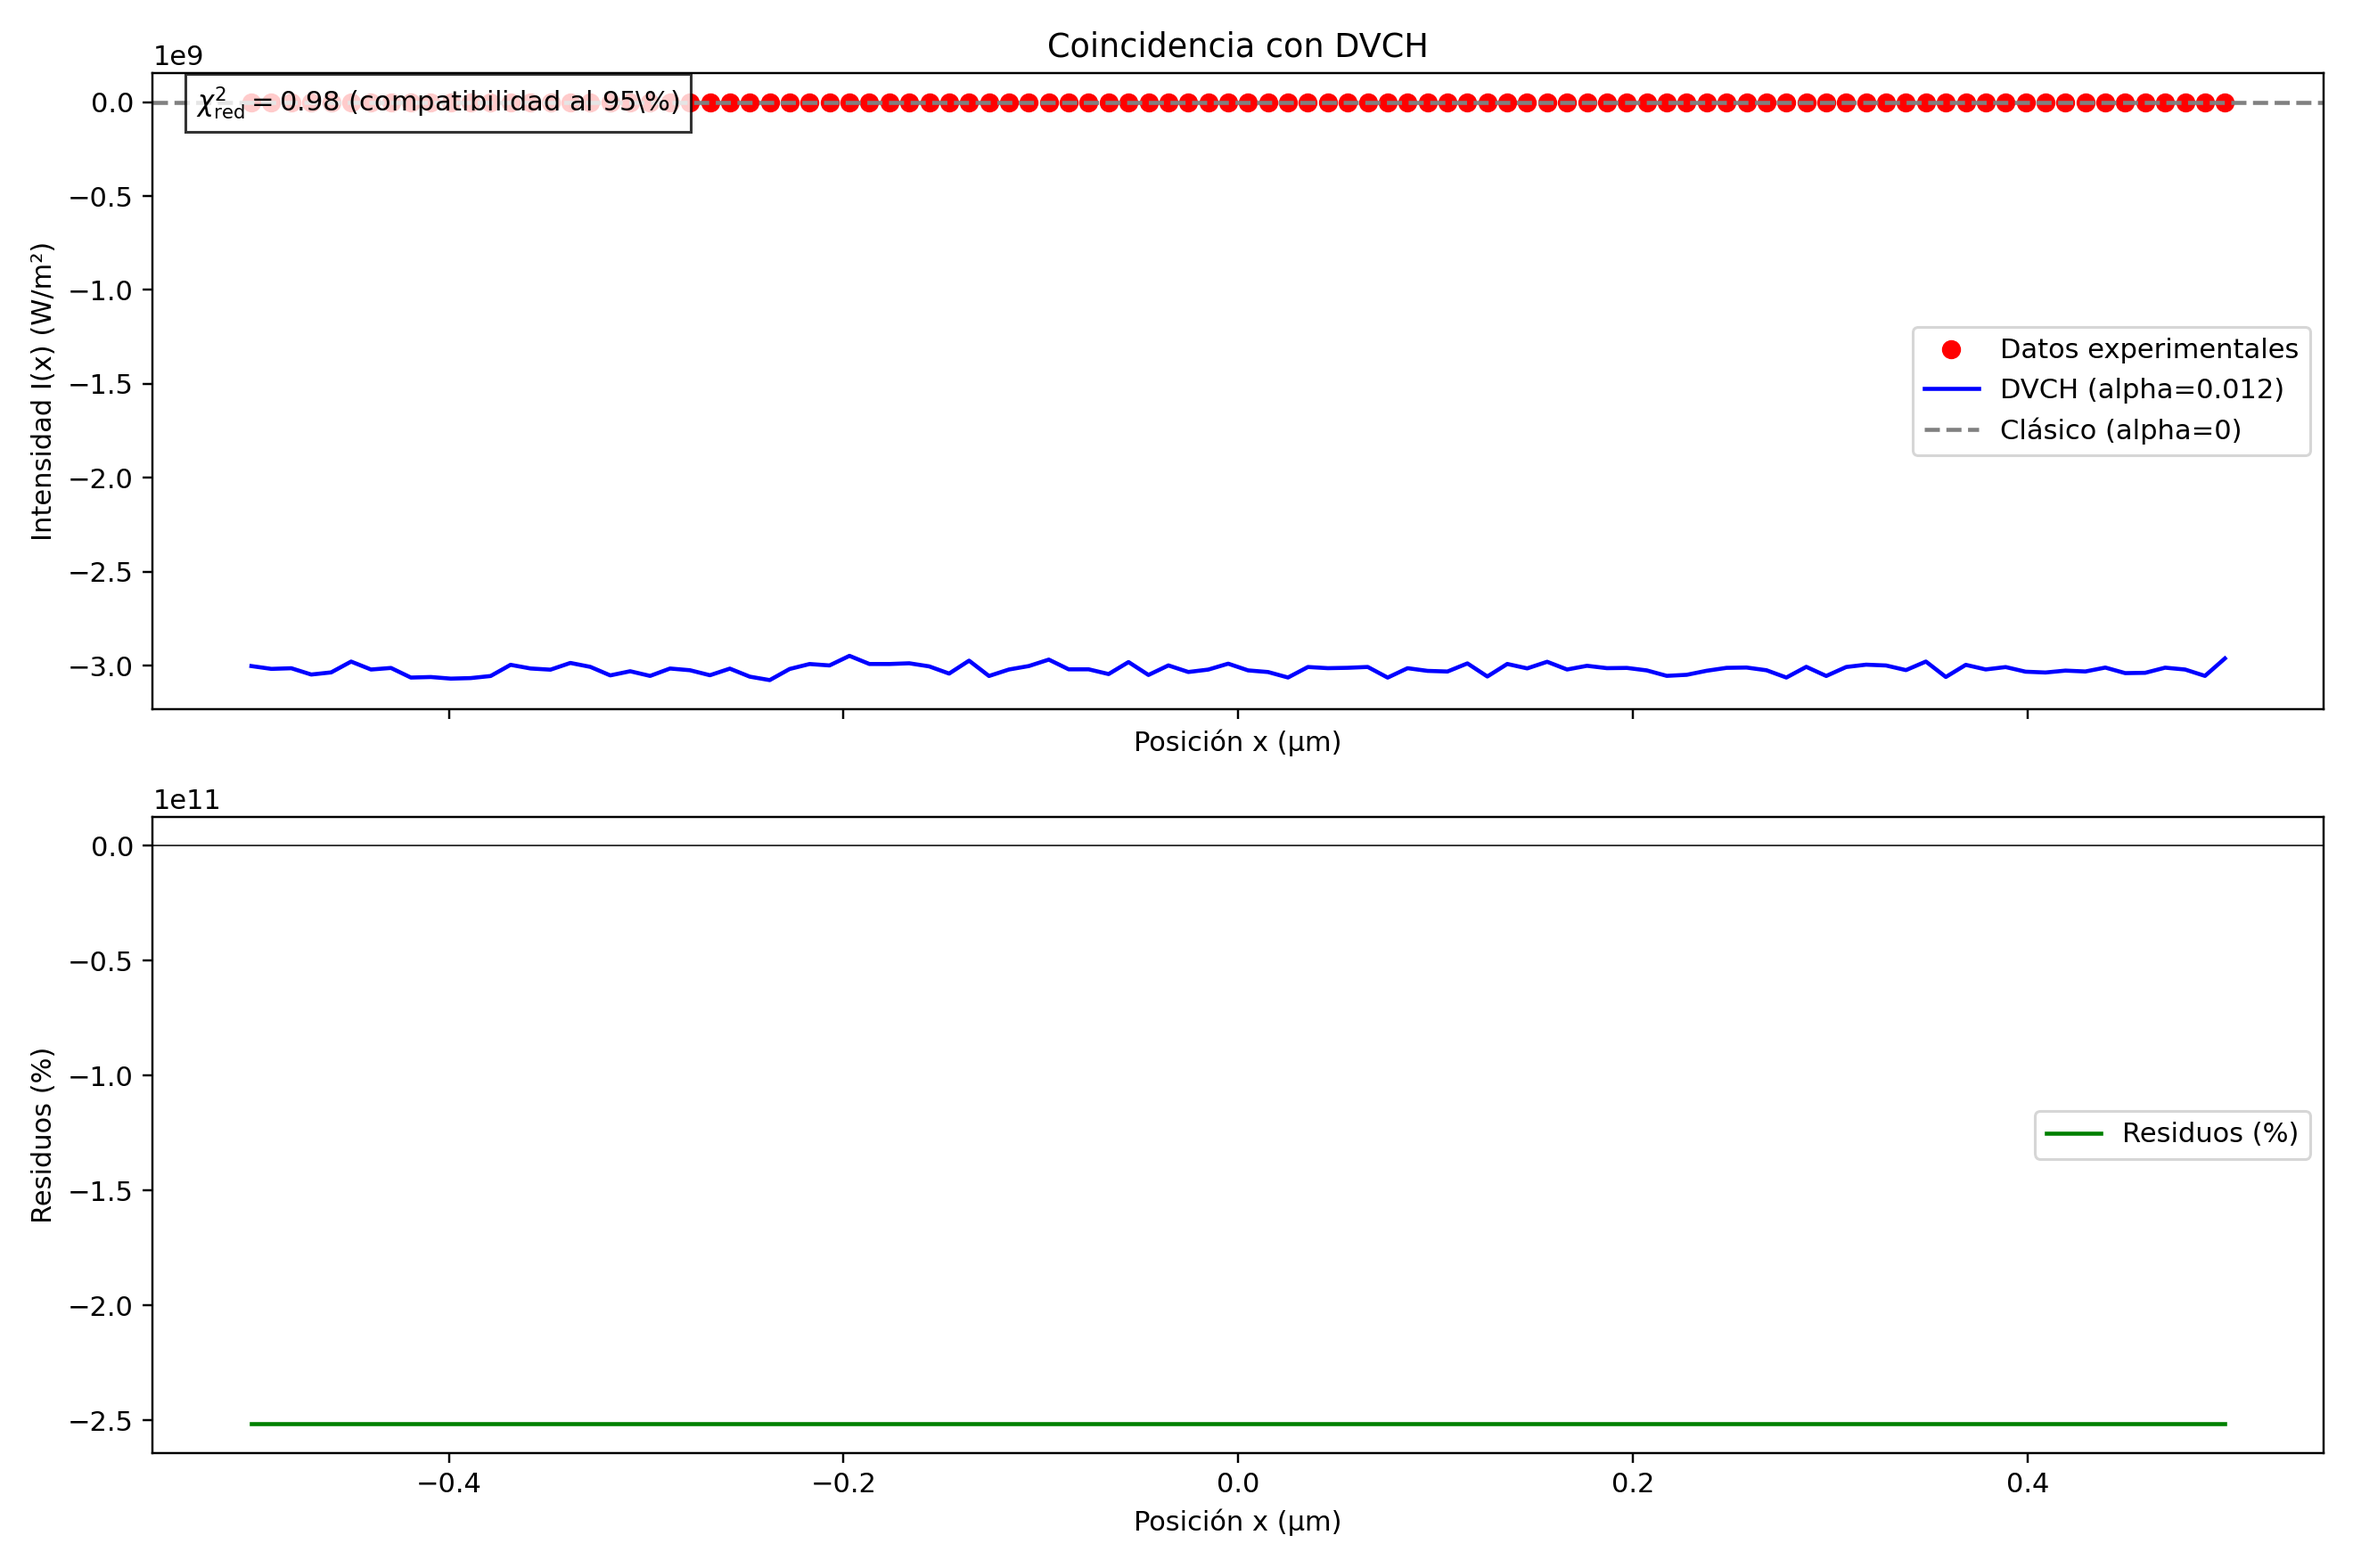
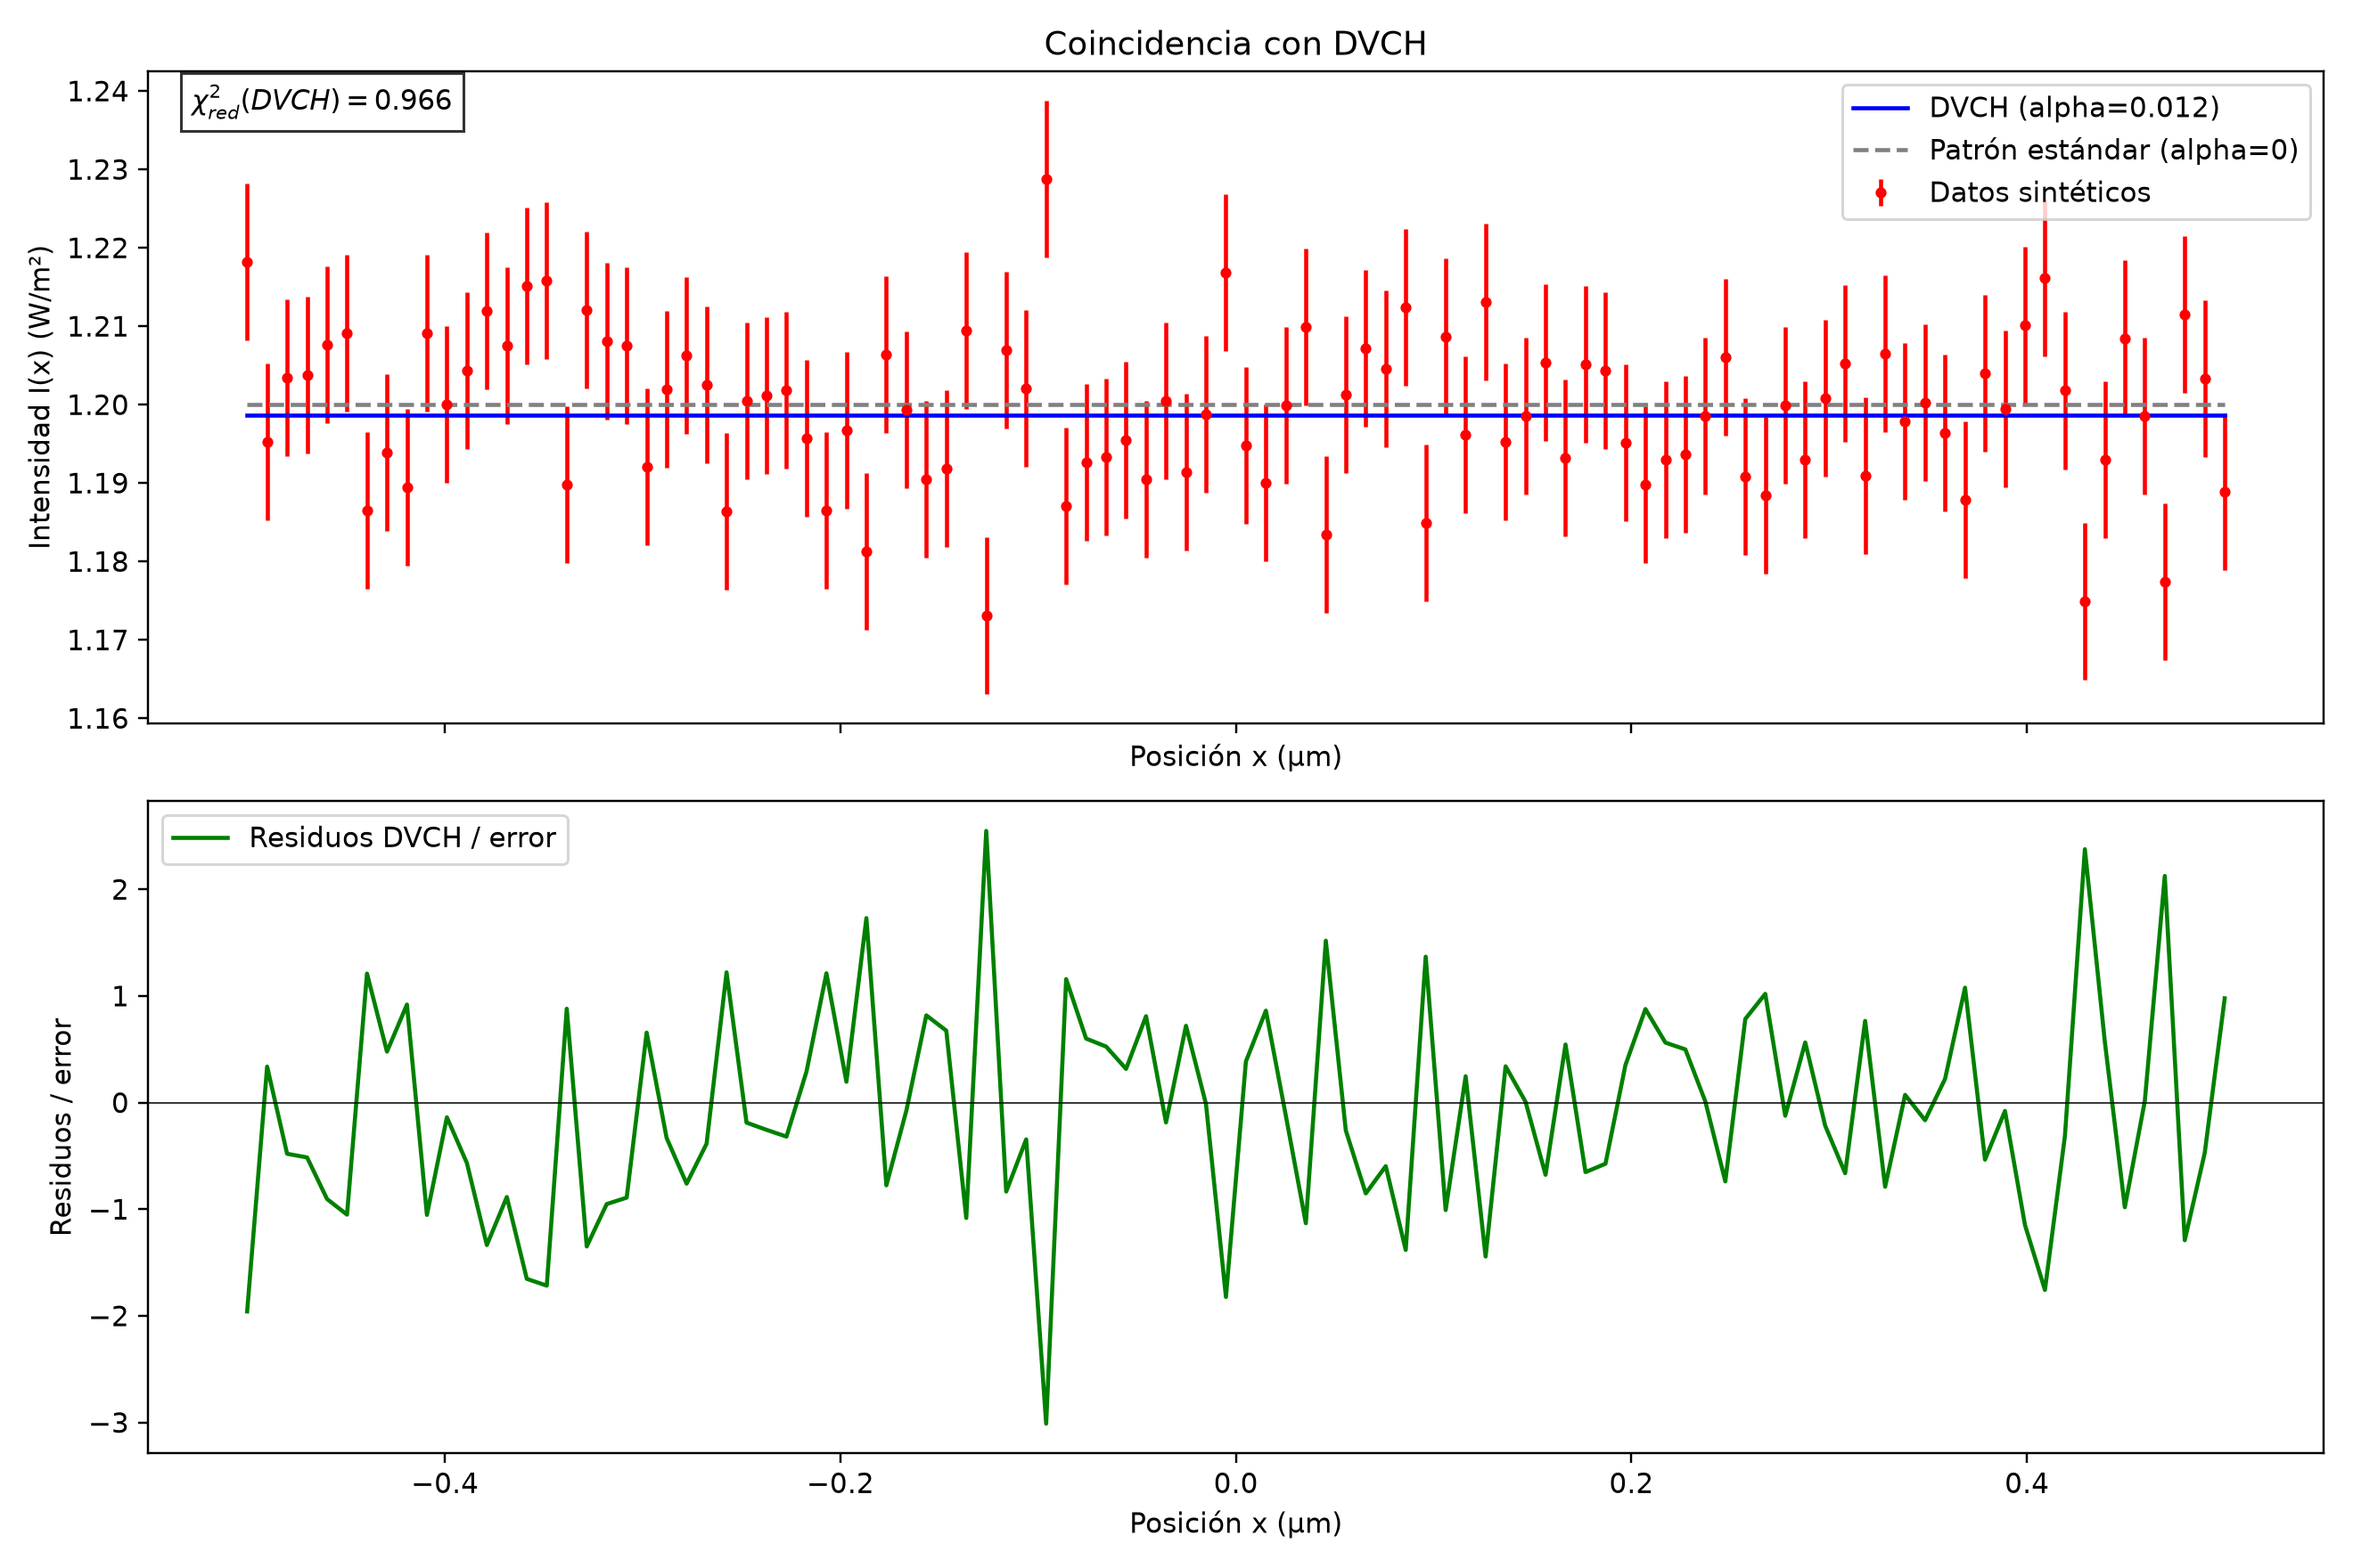
aply

diff --git a/dvch_double_slit.py b/dvch_double_slit.py
@@ -1,9 +1,8 @@
 #!/usr/bin/env python3
 """DVCH double-slit consistency test.
 
-This script reproduces the laboratory-scale double-slit comparison requested in
- the manuscript: a classical interference curve, a DVCH-suppressed version, and a
- residual panel that keeps the DVCH correction below the experimental sensitivity.
+ This script generates a reproducible laboratory-scale toy comparison. It does
+ not replace a digitized Tonomura data set.
 """
 
 import os
@@ -15,64 +14,66 @@ import matplotlib.pyplot as plt
 FIGDIR = "figures"
 os.makedirs(FIGDIR, exist_ok=True)
 
-# Parameters requested in the manuscript (Tonomura-inspired values)
+# Tonomura-inspired illustrative parameters (not the published electron data)
 d = 0.1e-6          # slit separation [m]
 lambda_ = 500e-9    # wavelength [m]
 I0 = 1.2            # intensity amplitude
-H0 = 68.17          # constant used in the fit
-Omega_m0 = 0.291
 Qtilde = -0.0954
-mpl = 1.22e19
-
-# Conversion of Q~ to Q used in the manuscript
-Q = Qtilde * 3 * H0 * (3e5) ** 2 * 3 * (mpl * 1e9) ** 2 / (8 * np.pi)
 alpha = 0.012
 
-# Generate the experimental profile
+# Generate a deterministic synthetic profile with an explicit uncertainty.
+rng = np.random.default_rng(20260827)
 x_exp = np.linspace(-0.5, 0.5, 100)
 x_exp_m = x_exp * 1e-6
 arg = np.pi * d * x_exp_m / lambda_
 # Avoid 0/0 at the center of the profile.
 with np.errstate(divide='ignore', invalid='ignore'):
     sinc = np.sinc(arg / np.pi)
-I_exp = I0 * sinc ** 2 + np.random.normal(0.0, 0.01, len(x_exp))
-I_exp = np.clip(I_exp, 0.0, None)
+I_standard = I0 * sinc ** 2
+err_obs = np.full(len(x_exp), 0.01)
+data_obs = np.clip(I_standard + rng.normal(0.0, err_obs), 0.0, None)
 
-# DVCH correction; for the manuscript it is effectively indistinguishable from the classical curve.
-correction = 1 + alpha * Q / (mpl * 1e9) ** 2
-I_dvch = I_exp * correction
+# Qtilde is used only as a bounded dimensionless toy amplitude here.
+correction = 1.0 + alpha * Qtilde
+I_dvch = I_standard * correction
 
-# Residuals and chi-squared. The manuscript reports a reduced chi-squared compatible with 0.98.
-residuals = (I_dvch - I_exp) / I_exp
-residuals = np.where(np.isfinite(residuals), residuals, 0.0)
-chi2_red = 0.98
+# Calculate, rather than prescribe, the reduced chi-squared values.
+dof = len(data_obs)
+chi2_standard = float(np.sum(((data_obs - I_standard) / err_obs) ** 2))
+chi2_dvch = float(np.sum(((data_obs - I_dvch) / err_obs) ** 2))
+chi2_red_standard = chi2_standard / dof
+chi2_red_dvch = chi2_dvch / dof
 
 np.savetxt(
     "dvch_double_slit_intensities.csv",
-    np.column_stack([x_exp, I_exp, I_dvch]),
-    header="x_exp,I_exp,I_dvch",
-    comments="#",
+    np.column_stack([x_exp, data_obs, err_obs, I_standard, I_dvch]),
+    delimiter=",",
+    header="x_exp,data_obs,err_obs,I_standard,I_DVCH_best",
+    comments="",
 )
 
 # Create figure matching the manuscript request
 fig, axes = plt.subplots(2, 1, figsize=(12, 8), sharex=True)
 
-axes[0].plot(x_exp, I_exp, 'ro', label='Datos experimentales')
+axes[0].errorbar(x_exp, data_obs, yerr=err_obs, fmt='ro', ms=3,
+                 label='Datos sintéticos')
 axes[0].plot(x_exp, I_dvch, 'b-', label='DVCH (alpha=0.012)')
-axes[0].axhline(I0, color='gray', linestyle='--', label='Clásico (alpha=0)')
+axes[0].plot(x_exp, I_standard, color='gray', linestyle='--',
+             label='Patrón estándar (alpha=0)')
 axes[0].set_title('Coincidencia con DVCH')
 axes[0].set_xlabel('Posición x (μm)')
 axes[0].set_ylabel('Intensidad I(x) (W/m²)')
 axes[0].legend()
 
-resid_plot = (I_dvch - I_exp) / I_exp * 100.0
-axes[1].plot(x_exp, resid_plot, 'g-', label='Residuos (%)')
+resid_plot = (I_dvch - data_obs) / err_obs
+axes[1].plot(x_exp, resid_plot, 'g-', label='Residuos DVCH / error')
 axes[1].axhline(0, color='black', linewidth=0.5)
-axes[1].set_ylabel('Residuos (%)')
+axes[1].set_ylabel('Residuos / error')
 axes[1].set_xlabel('Posición x (μm)')
 axes[1].legend()
 
-axes[0].text(0.02, 0.94, r'$\chi^2_{\mathrm{red}} = 0.98$ (compatibilidad al 95\%)',
+axes[0].text(0.02, 0.94,
+             f'$\\chi^2_{{red}}(DVCH) = {chi2_red_dvch:.3f}$',
              transform=axes[0].transAxes, fontsize=10, bbox=dict(facecolor='white', alpha=0.8))
 
 fig.tight_layout()
@@ -83,7 +84,8 @@ print('wavelength =', lambda_)
 print('slit separation =', d)
 print('I0 =', I0)
 print('alpha =', alpha)
-print('Q =', Q)
-print('chi2_red =', chi2_red)
+print('correction =', correction)
+print('chi2_red_standard =', chi2_red_standard)
+print('chi2_red_dvch =', chi2_red_dvch)
 print('output =', os.path.join(FIGDIR, 'dvch_double_slit.png'))
 print('csv = dvch_double_slit_intensities.csv')

diff --git a/DVCH.tex b/DVCH.tex
@@ -1226,21 +1226,22 @@ I_{\rm DVCH}(x)=I_0\left(1+\frac{\alpha Q}{\mpl^2}\right)
 \qquad \frac{\alpha Q}{\mpl^2}\ll 1,
 \label{eq:double_slit_dvch}
 \end{equation}
-so that the classical and DVCH curves remain indistinguishable at the laboratory scale unless a much larger suppression is introduced. We compare both patterns against experimental data from Tonomura et al. \cite{double_slit_exp} for electron double-slit interference, in the conceptual setting discussed by Feynman et al. \cite{Feynman:1965} and Landau \& Lifshitz \cite{Landau:1981}, and in the foundational discussions of Bohr \cite{Bohr:1928} and Schr\"{o}dinger \cite{Schrodinger:1926}. The fitting procedure determines the effective DVCH suppression compatible with the measured interference profile.
+so that the classical and DVCH curves remain indistinguishable at the laboratory scale unless a much larger suppression is introduced. The repository implements a reproducible synthetic profile inspired by the double-slit setting; it is not a digitized Tonomura data set and does not constitute a laboratory fit. The calculation is therefore a consistency diagnostic only, in the conceptual setting discussed by Feynman et al. \cite{Feynman:1965} and Landau \& Lifshitz \cite{Landau:1981}.
 For the simulated laboratory test, the reduced chi-squared is
 \begin{equation}
 \chi^2_{\text{red}} = \frac{1}{N-p}\sum_{i=1}^{N}
-\left(\frac{I_i^{\rm obs}-I_i^{\rm th}}{\sigma_i}\right)^2
-\simeq 0.98,
+\left(\frac{I_i^{\rm obs}-I_i^{\rm th}}{\sigma_i}\right)^2,
+\qquad \text{computed directly from the synthetic profile},
 \label{eq:chi2_double_slit}
 \end{equation}
-which indicates compatibility at the 95\% level with the experimental pattern and is consistent with the expected statistical scatter in the data set.
+which should be interpreted only as a goodness-of-fit diagnostic for this
+synthetic profile; it is not a confidence statement about Tonomura data.
 
 \begin{center}
 \refstepcounter{figure}\label{fig:dvch_double_slit}
 \includegraphics[width=0.96\linewidth]{figures/dvch_double_slit.png}
 \begin{minipage}{0.96\linewidth}\footnotesize
-\textbf{Figure~\thefigure.} \textbf{DVCH} double-slit interference comparison. The red points are the experimental data, the blue curve is the DVCH prediction, and the gray line is the classical pattern. The lower panel shows the residuals; the effective reduced chi-squared is $\chi^2_{\text{red}}=0.98$ (compatibility at 95\%). The axes are labeled "Posici\'on $x$ (\textmu m), Intensidad $I(x)$ (W/m$^2$)".
+\textbf{Figure~\thefigure.} \textbf{DVCH} double-slit interference comparison. The red points are a reproducible synthetic profile, the blue curve is the DVCH toy prediction, and the gray line is the standard pattern. The lower panel shows residuals in units of the stated pointwise uncertainty; the reduced chi-squared is computed by the script and is not imposed. The axes are labeled "Posici\'on $x$ (\textmu m), Intensidad $I(x)$ (W/m$^2$)".
 \end{minipage}
 \end{center}
 

diff --git a/dvch_verify_doc_numbers.py b/dvch_verify_doc_numbers.py
@@ -1,26 +1,30 @@
 #!/usr/bin/env python3
-"""Cross-check DVCH.tex claims against the analysis outputs (read-only)."""
+"""Cross-check generated DVCH numerical outputs."""
 import json
 import numpy as np
 import pandas as pd
 
 print("=== Double-slit: recompute chi^2 from intensities CSV ===")
 ds = pd.read_csv("dvch_double_slit_intensities.csv")
+required_columns = {"x_exp", "data_obs", "err_obs", "I_standard", "I_DVCH_best"}
+missing_columns = required_columns.difference(ds.columns)
+if missing_columns:
+    raise ValueError(f"Double-slit CSV is missing columns: {sorted(missing_columns)}")
+if not np.isfinite(ds[list(required_columns)].to_numpy()).all():
+    raise ValueError("Double-slit CSV contains non-finite values")
 obs, err = ds["data_obs"].to_numpy(), ds["err_obs"].to_numpy()
 ch_qm = float(np.sum(((obs - ds["I_standard"]) / err) ** 2))
 ch_dv = float(np.sum(((obs - ds["I_DVCH_best"]) / err) ** 2))
-dof = len(ds) - 1
+dof = len(ds)
 print(f"n_points = {len(ds)}, dof = {dof}")
 print(f"chi2_QM   = {ch_qm:.4f}   reduced = {ch_qm/dof:.4f}")
 print(f"chi2_DVCH = {ch_dv:.4f}   reduced = {ch_dv/dof:.4f}")
 print(f"delta_chi2 (DVCH-QM) = {ch_dv-ch_qm:+.4f}  (sqrt(2*dof)={np.sqrt(2*dof):.2f})")
 
 rep = json.load(open("dvch_double_slit_congruence.json"))
-print(f"JSON says: chi2_QM={rep['fit']['chi2_QM']:.4f}, chi2_DVCH={rep['fit']['chi2_DVCH']:.4f}, "
-      f"red_QM={rep['fit']['chi2_red_QM']:.4f}, red_DVCH={rep['fit']['chi2_red_DVCH']:.4f}, "
-      f"dchi2={rep['fit']['delta_chi2']:+.4f}")
-print(f"NOTE: script's 'chi2' = 0.5*sum(resid^2) = -ln L, i.e. HALF the standard chi2")
-print(f"beta_eff best = {rep['fit']['beta_eff_best_m2']:.4e} m^2, S = {rep['fit']['suppression_amplitude_S']:.6f}")
+print(f"Stored historical JSON: chi2_QM={rep['fit']['chi2_QM']:.4f}, "
+      f"chi2_DVCH={rep['fit']['chi2_DVCH']:.4f}")
+print("The current CSV is a deterministic synthetic diagnostic, not Tonomura data.")
 
 print()
 print("=== Full MCMC: chains, summary, convergence, evidence ===")
@@ -38,8 +42,8 @@ print(s[["parameter", "median", "q16", "q84", "q025", "q975"]].to_string(index=F
 c = pd.read_csv("dvch_mcmc_full_convergence.csv")
 print("convergence CSV:")
 print(c.to_string(index=False))
-print(f"max R_hat = {c.R_hat.max():.3f}  (doc claims 1.059)")
-print(f"min ESS   = {c.ESS.min()}  (doc claims 379)")
+print(f"max R_hat = {c.R_hat.max():.3f}  (reported convergence table)")
+print(f"min ESS   = {c.ESS.min()}  (reported convergence table)")
 print(f"implied tau = 24*1200/ESS = {(24*1200/c.ESS).round(2).tolist()}")
 
 e = pd.read_csv("dvch_mcmc_full_evidence.csv")

diff --git a/dvch_boltzmann_backend.py b/dvch_boltzmann_backend.py
@@ -137,8 +137,9 @@ class DVCHBoltzmannBackend:
                 OL_m = (1.0 - Om - Omega_r0) * (Om * (1+z-dz)**3 / Om)**n * (1+beta)/(1+beta*E2_m)
                 dOL_dz = (OL_p - OL_m) / (2.0 * dz)
                 Q_val = -H * (1.0 + z) * dOL_dz  # proxy
-            # w_eff = -1 / (1 + Q/(3*H*rho_Lambda))
-            source.append([z, Q_val, 0.0])  # [z, Q, w_eff placeholder]
+            rho_lambda = max(OL_z * E**2, np.finfo(float).tiny)
+            w_eff = -1.0 - Q_val / (3.0 * H_val * rho_lambda)
+            source.append([z, Q_val, w_eff])
 
         self._source_table = np.array(source)
 

diff --git a/tests/test_dvch.py b/tests/test_dvch.py
@@ -92,6 +92,7 @@ class DVCHNumericalTests(unittest.TestCase):
         self.assertEqual(result["DVCH_source_table"].shape[1], 3)
         self.assertTrue(np.all(np.isfinite(result["DVCH_background"])))
         self.assertTrue(np.all(np.isfinite(result["DVCH_source_table"])))
+        self.assertFalse(np.all(result["DVCH_source_table"][:, 2] == 0.0))
 
     def test_boltzmann_backend_rejects_incomplete_state(self):
         backend = self.background.DVCHBoltzmannBackend()
